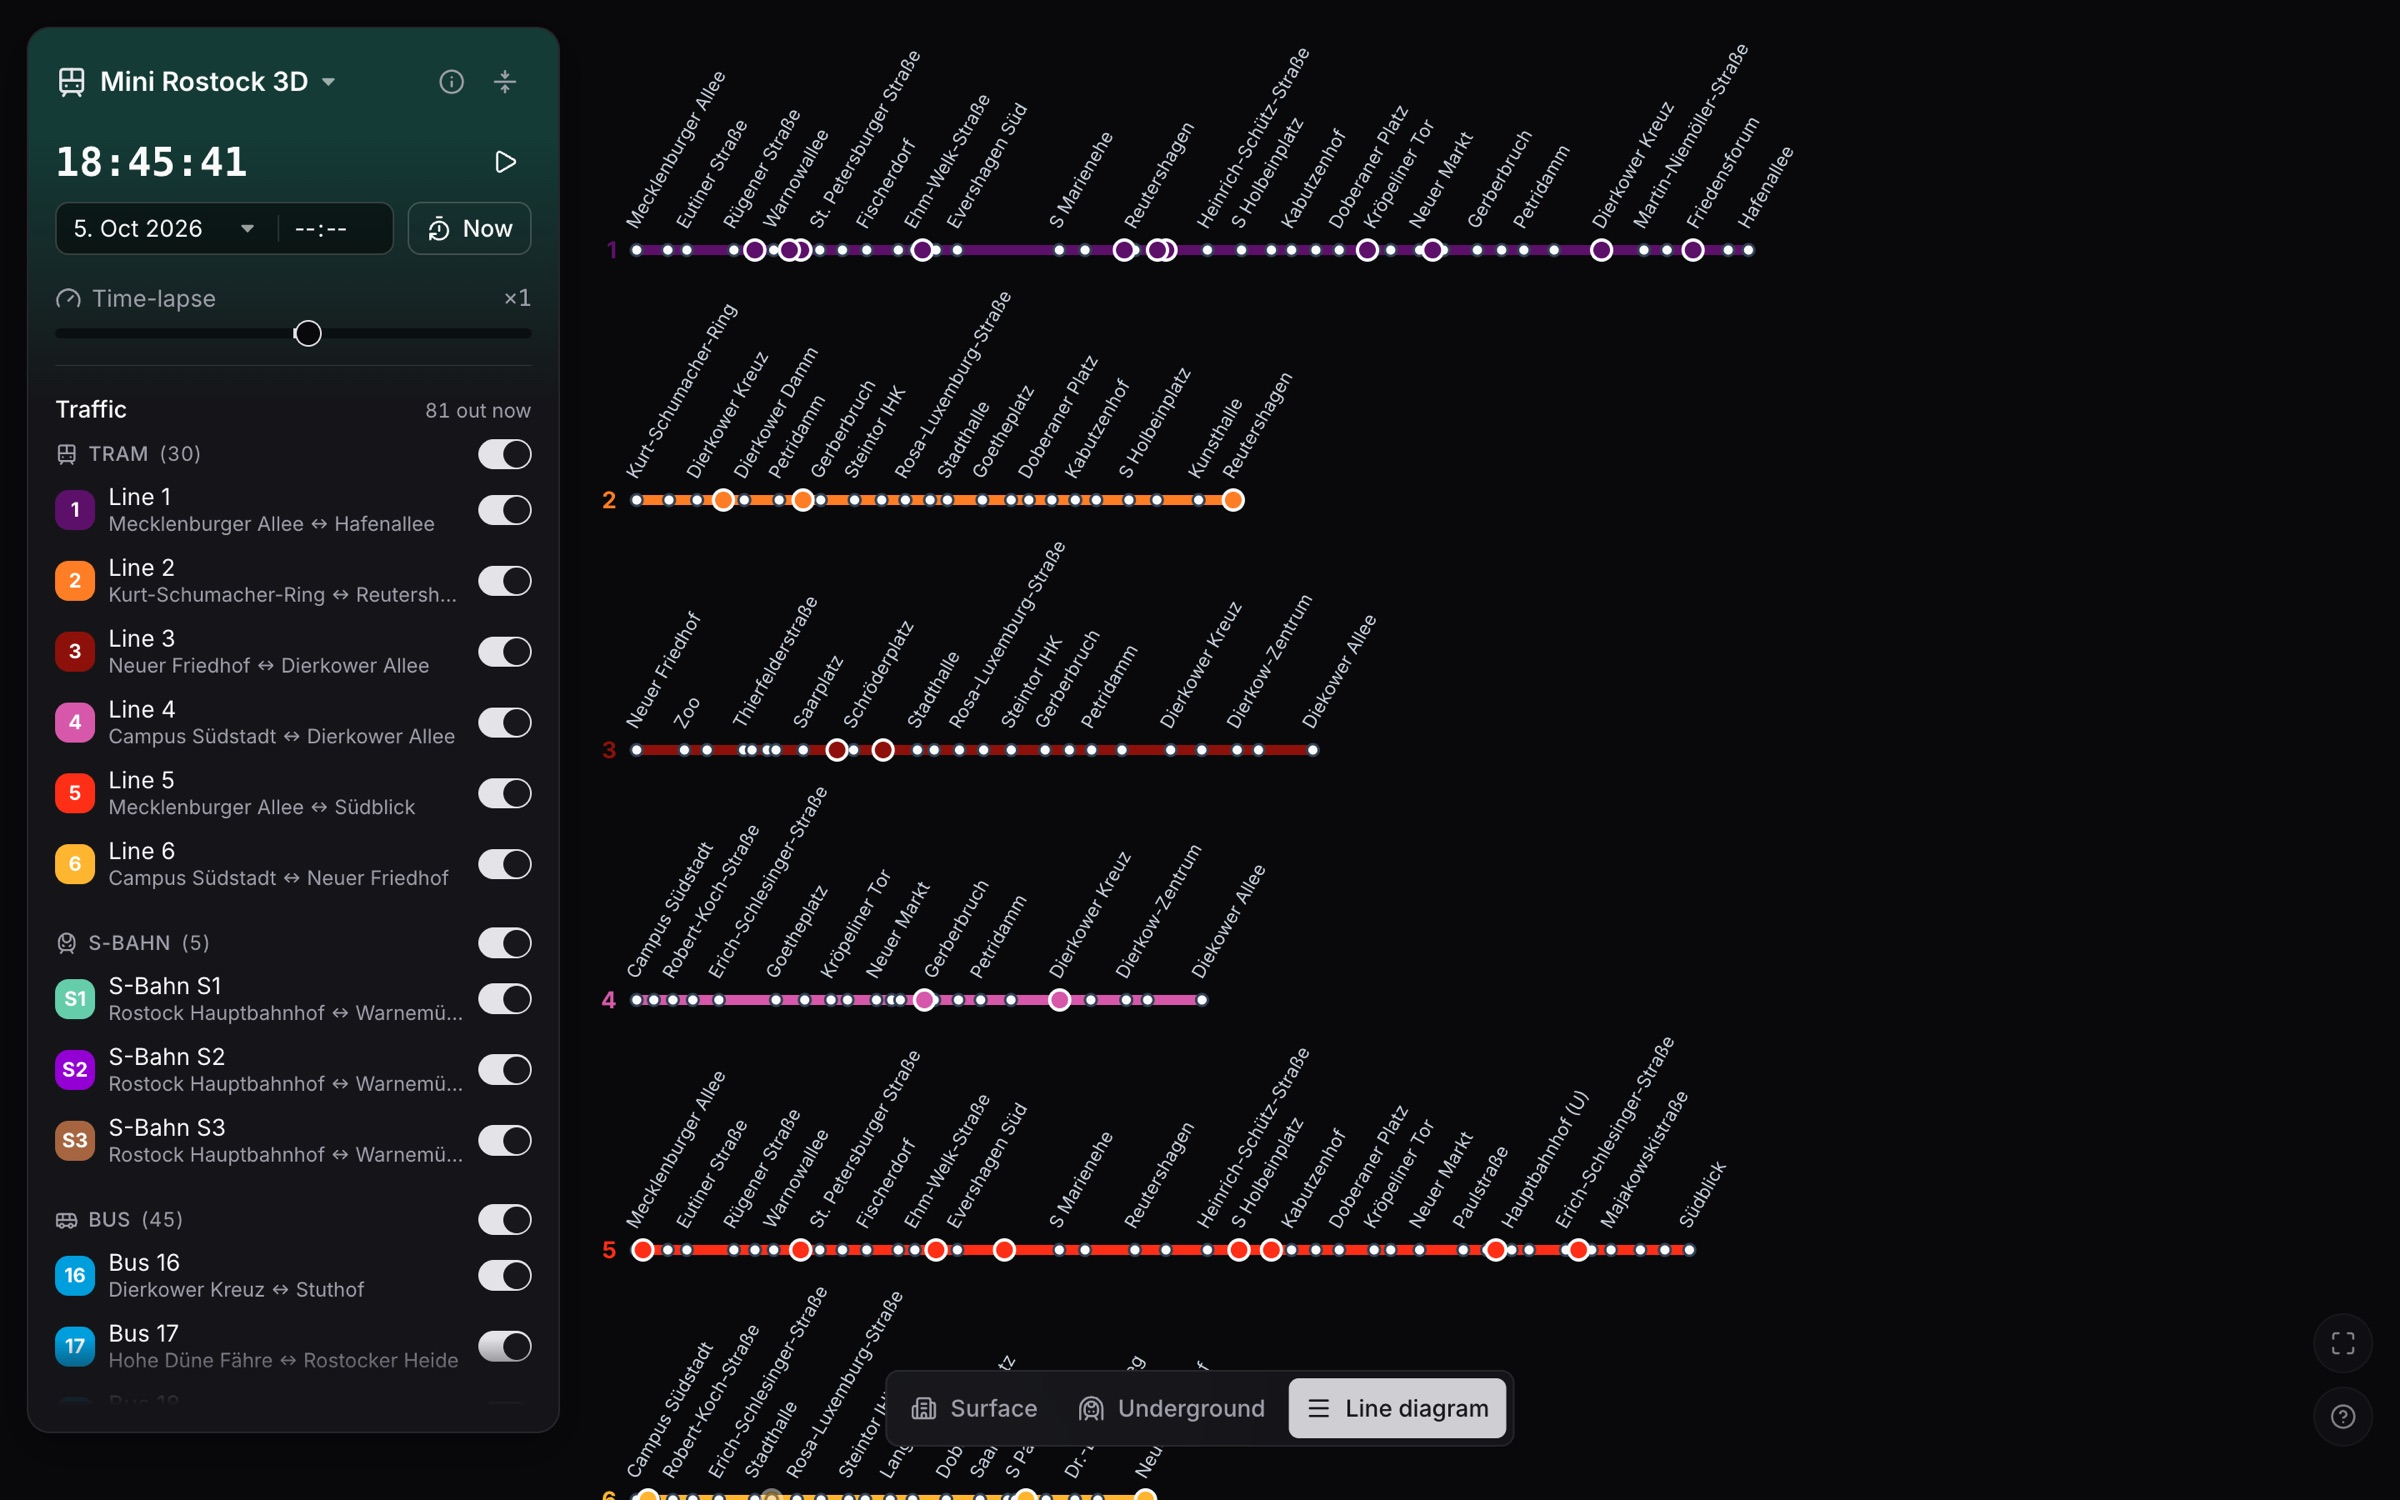
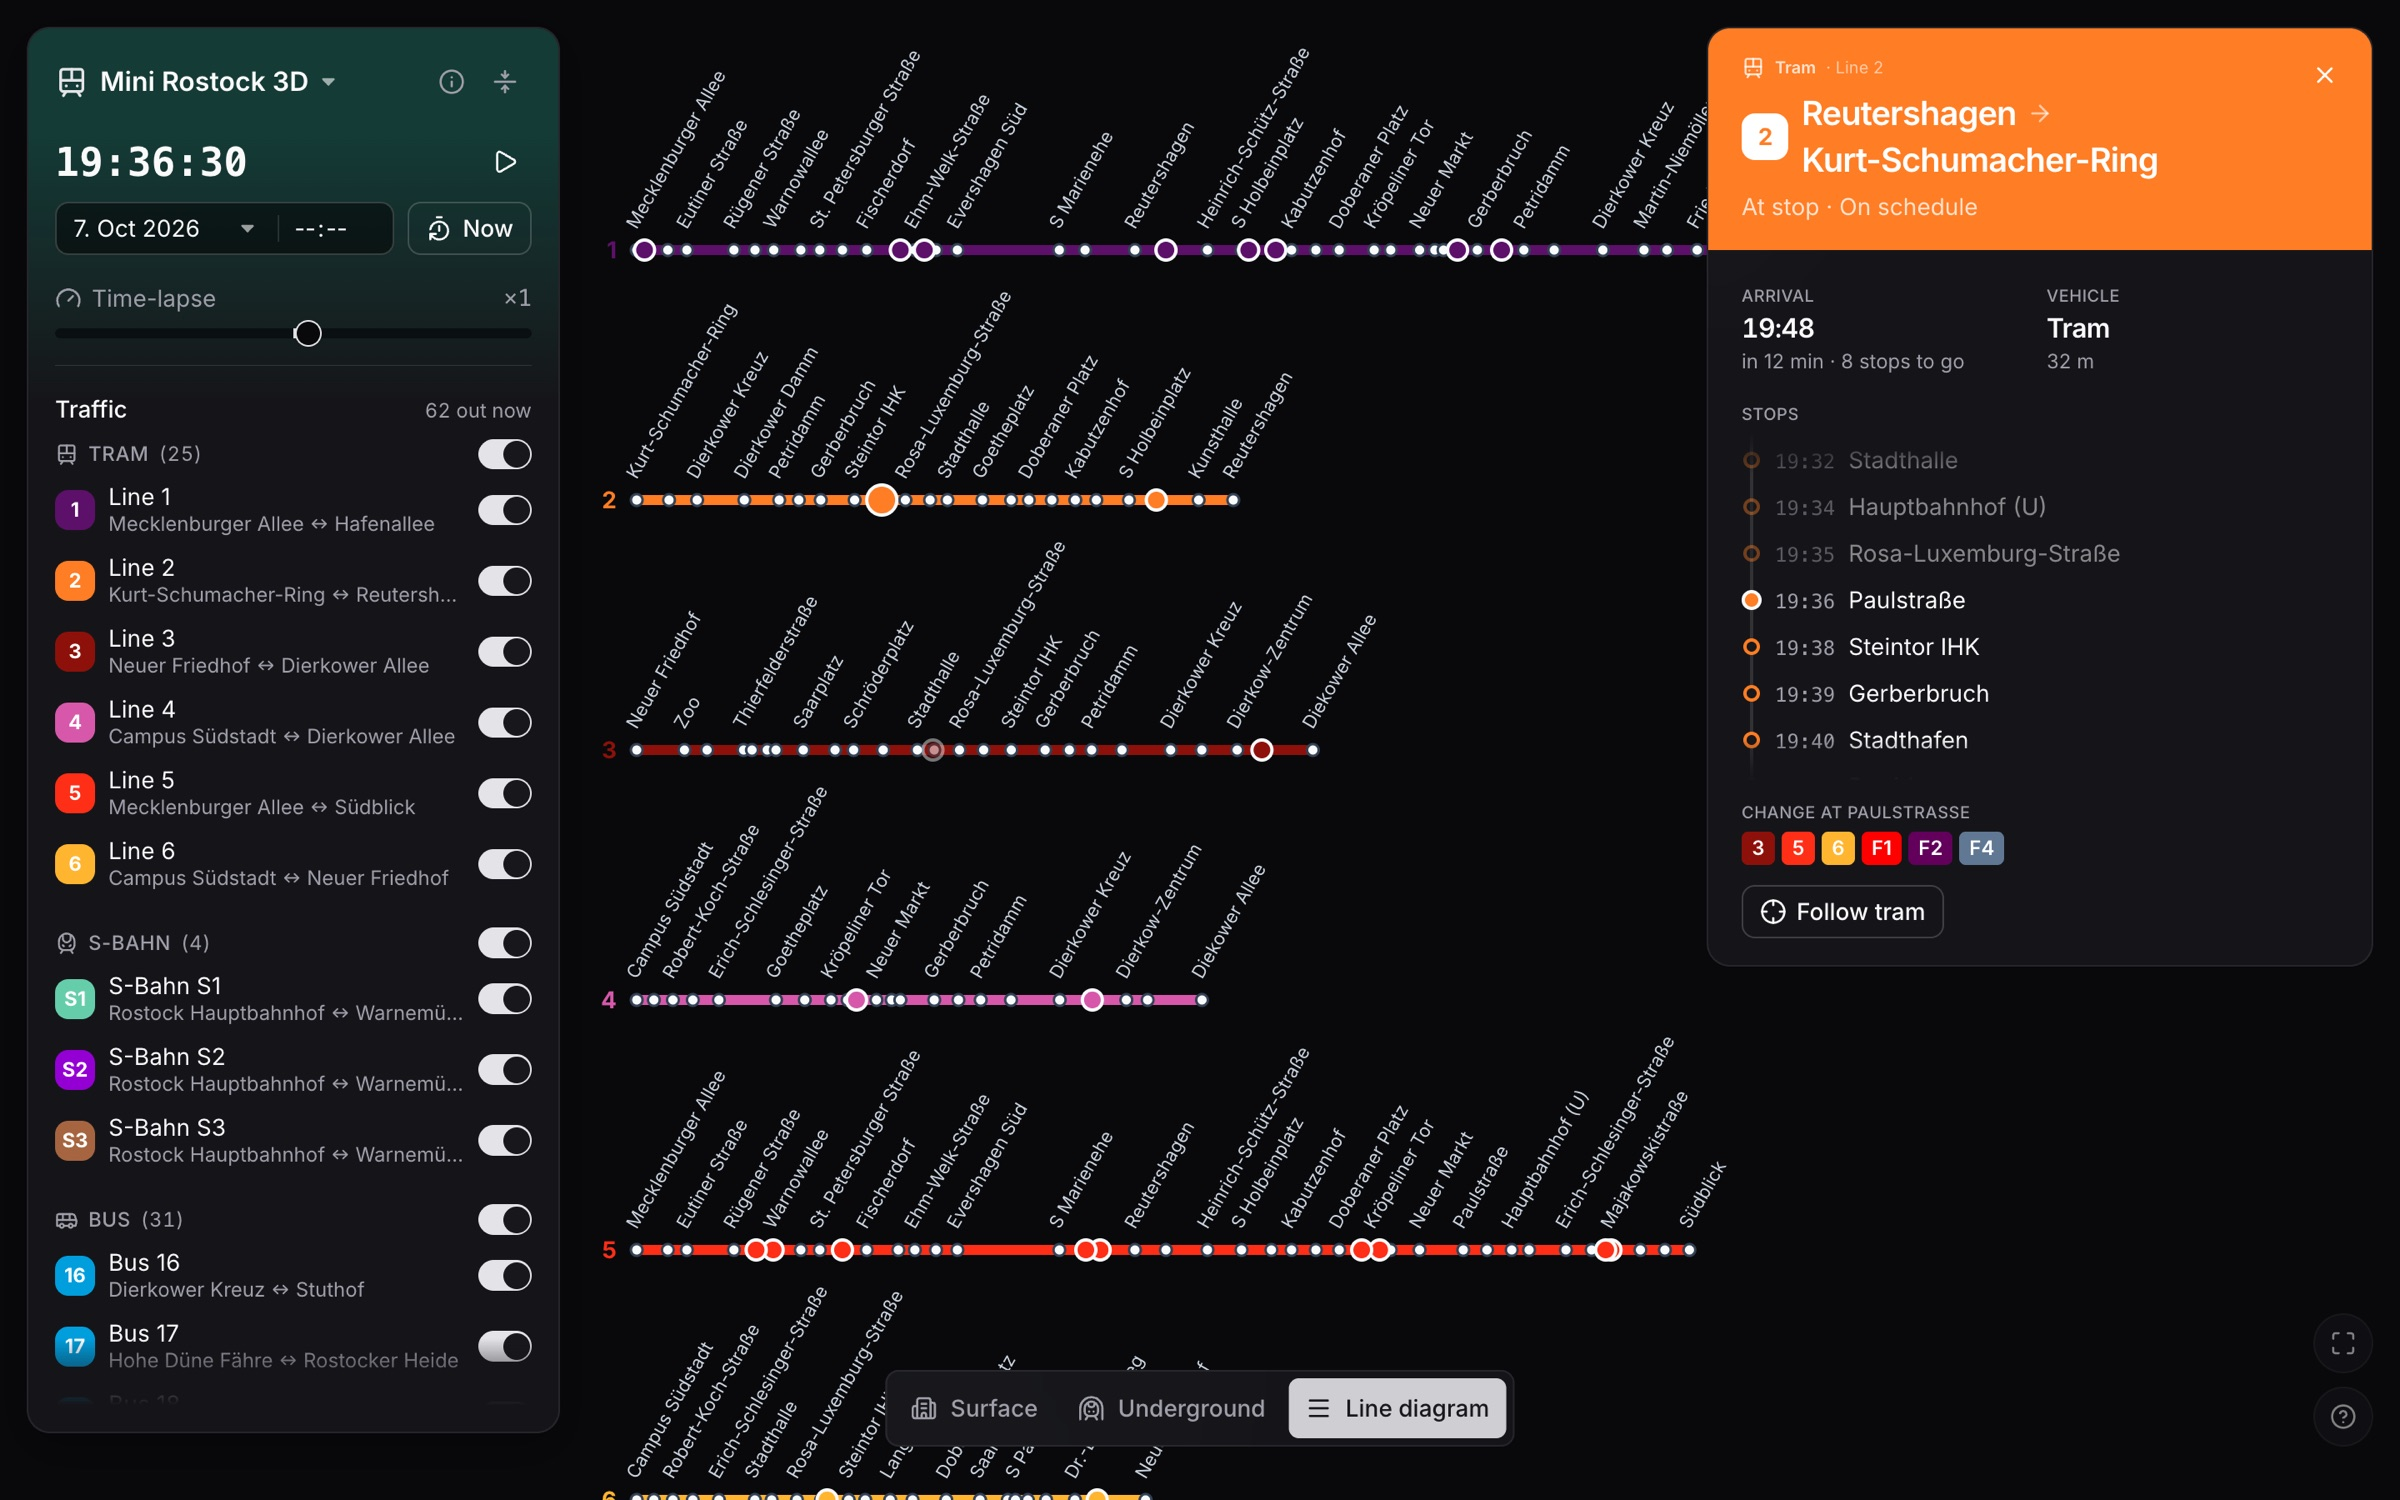
Rearrange the README's pictures around Warnemünde at dawn and a picked tram
The two Berlin pictures leave their Rostock names for berlin-trams and
berlin-underground. Warnemünde from the sea before sunrise joins the
harbour's table – the ferry BERLIN putting out between the mole
lights, the lighthouse's beam on the water – in the place the
underground view held, which moves under the paragraph that
introduces it, beside the flat map. The line diagram, retaken with a
tram of line 2 picked and its card open, gets a row of its own at full
width, where its stop names can be read. The weather gets a paragraph
of its own in place of the clouds' bullet.

The screenshot script lists the views in the README's order, no longer
waits for Google's tiles under the line diagram, which covers the map
and never lets them settle, and notes that the diagram's tram is found
only while its trip runs on the real clock.

diff --git a/README.md b/README.md
@@ -32,7 +32,7 @@ a chase camera; clicking a stop opens its departure board.
 
 | | |
 |---|---|
-| [![Three trams and a bus at Mollstraße/Otto-Braun-Straße in Berlin](docs/screenshots/rostock-dawn-trams.jpg)](docs/screenshots/rostock-dawn-trams.jpg) | [![An S-Bahn train at Lütten Klein station in the evening, with two buses](docs/screenshots/rostock-dawn-sbahn.jpg)](docs/screenshots/rostock-dawn-sbahn.jpg) |
+| [![Three trams and a bus at Mollstraße/Otto-Braun-Straße in Berlin](docs/screenshots/berlin-trams.jpg)](docs/screenshots/berlin-trams.jpg) | [![An S-Bahn train at Lütten Klein station in the evening, with two buses](docs/screenshots/rostock-dawn-sbahn.jpg)](docs/screenshots/rostock-dawn-sbahn.jpg) |
 | *Berlin's trams M4, M6 and M8 and the bus 200 at Mollstraße/Otto-Braun-Straße in the morning rush hour* | *The S1 to Warnemünde at Lütten Klein in the evening, with two buses of line 38 – the cabin glow and the street lamps follow the simulated clock* |
 
 **The harbour and the sky, live.** AIS positions from aisstream.io put every
@@ -47,8 +47,8 @@ clock set back replays the last five days.
 |---|---|
 | [![Container ships at the Waltershof terminals in Hamburg](docs/screenshots/hamburg-ships.jpg)](docs/screenshots/hamburg-ships.jpg) | [![A Lufthansa 747-8 on final into Frankfurt, followed by the chase camera](docs/screenshots/frankfurt-aircraft.jpg)](docs/screenshots/frankfurt-aircraft.jpg) |
 | *Hamburg, Waltershof: the box ships at their berths, each the size AIS reports* | *Frankfurt: following a 747-8 on final, with its ADS-B card* |
-| [![Ships in the Kiel-Holtenau locks](docs/screenshots/kiel-ferry.jpg)](docs/screenshots/kiel-ferry.jpg) | [![U-Bahn trains at Wittenbergplatz in Berlin, seen from beneath the city](docs/screenshots/rostock-night.jpg)](docs/screenshots/rostock-night.jpg) |
-| *Kiel-Holtenau: three ships in the locks of the Kiel Canal, the pilot boat waiting outside* | *The underground view: Berlin's U1 and U2 at Wittenbergplatz, the city dimmed above them* |
+| [![Ships in the Kiel-Holtenau locks](docs/screenshots/kiel-ferry.jpg)](docs/screenshots/kiel-ferry.jpg) | [![Warnemünde from the sea before sunrise, a ferry putting out between the moles](docs/screenshots/rostock-warnemuende.jpg)](docs/screenshots/rostock-warnemuende.jpg) |
+| *Kiel-Holtenau: three ships in the locks of the Kiel Canal, the pilot boat waiting outside* | *Warnemünde before sunrise: the ferry BERLIN putting out to sea between the mole lights, the lighthouse's beam on the water, the fairway's buoys lit* |
 
 **A clock, not a feed.** The time field and the calendar set the simulated
 moment, the time-lapse runs it at up to ×120 forward or backward, and
@@ -56,16 +56,29 @@ everything follows: the sun and the night, the street lamps, the airfield
 lights, the lighthouses, the weather of that quarter hour (Open-Meteo keeps
 its past), and the recordings of the harbour and the sky.
 
+**The sky over the city.** Rain, cloud cover, wind, visibility and the
+temperature on the weather button come from Open-Meteo for the moment on the
+clock. The rain greys the photo tiles and falls in streaks, and poor
+visibility lights the airfields by day. Switched on in the weather popover,
+volumetric clouds are ray-marched from the live cover, drift with the
+reported wind, shadow the streets and drop the rain from their base. The same
+popover swaps the live sky for a sunny, overcast or rainy one.
+
 **Two more readings of the city.** The *line diagram* pulls every line
 straight into a row with its stops at their true distances – the vehicles keep
 running on the rows – and the *underground* view looks at the city from
 beneath its tunnels. The globe on the control dial swaps Google's tiles for a
 flat street map.
 
+| |
+|---|
+| [![Rostock's lines pulled straight into a diagram, a tram of line 2 selected with its card](docs/screenshots/rostock-diagram.jpg)](docs/screenshots/rostock-diagram.jpg) |
+| *The line diagram: every line a row, every stop at its distance – a tram of line 2 picked, its card with the stops ahead and the connections at Paulstraße* |
+
 | | |
 |---|---|
-| [![Rostock's lines pulled straight into a diagram](docs/screenshots/rostock-diagram.jpg)](docs/screenshots/rostock-diagram.jpg) | [![Cologne on the flat map with its webcams](docs/screenshots/cologne-flat.jpg)](docs/screenshots/cologne-flat.jpg) |
-| *The line diagram: every line a row, every stop at its distance* | *Cologne on the flat map, with Windy's webcams floating over their spots* |
+| [![U-Bahn trains at Wittenbergplatz in Berlin, seen from beneath the city](docs/screenshots/berlin-underground.jpg)](docs/screenshots/berlin-underground.jpg) | [![Cologne on the flat map with its webcams](docs/screenshots/cologne-flat.jpg)](docs/screenshots/cologne-flat.jpg) |
+| *The underground view: Berlin's U1 and U2 at Wittenbergplatz, the city dimmed above them* | *Cologne on the flat map, with Windy's webcams floating over their spots* |
 
 **And the rest, briefly:**
 
@@ -73,8 +86,6 @@ flat street map.
   contrast, saturation, vignette, a framing grid and a tilt-shift miniature
   look with its own knobs; every setting rides in the URL, so a link is a
   picture. A **camera path** bar flies a dolly shot between two saved views.
-- **Volumetric clouds** ray-marched from the live cloud cover, drifting with
-  the reported wind and shadowing the streets; rain from their base.
 - **Night** – the tiles graded into a blue night, a cabin-light pool under
   every vehicle and its headlights and tail lights, OSM street lamps along
   the routes, runway and taxiway lights in ICAO colours, buoy lanterns,
